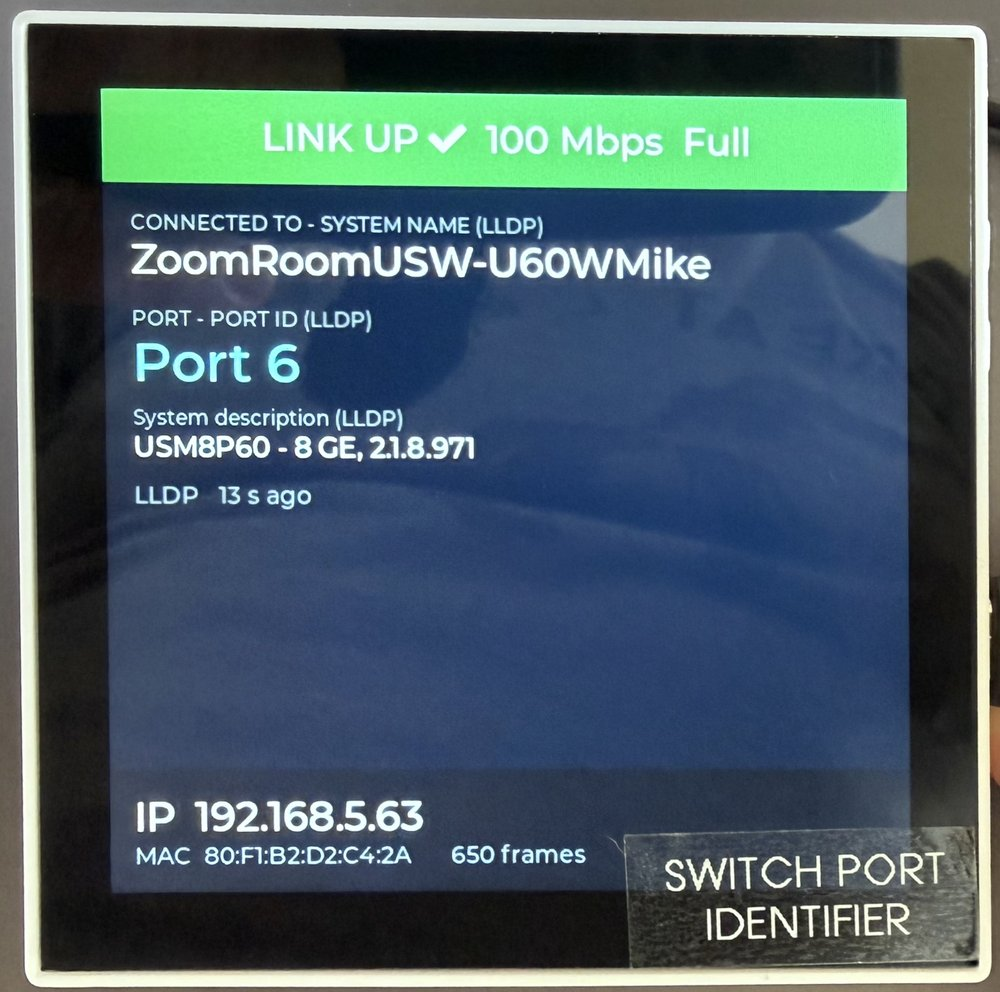
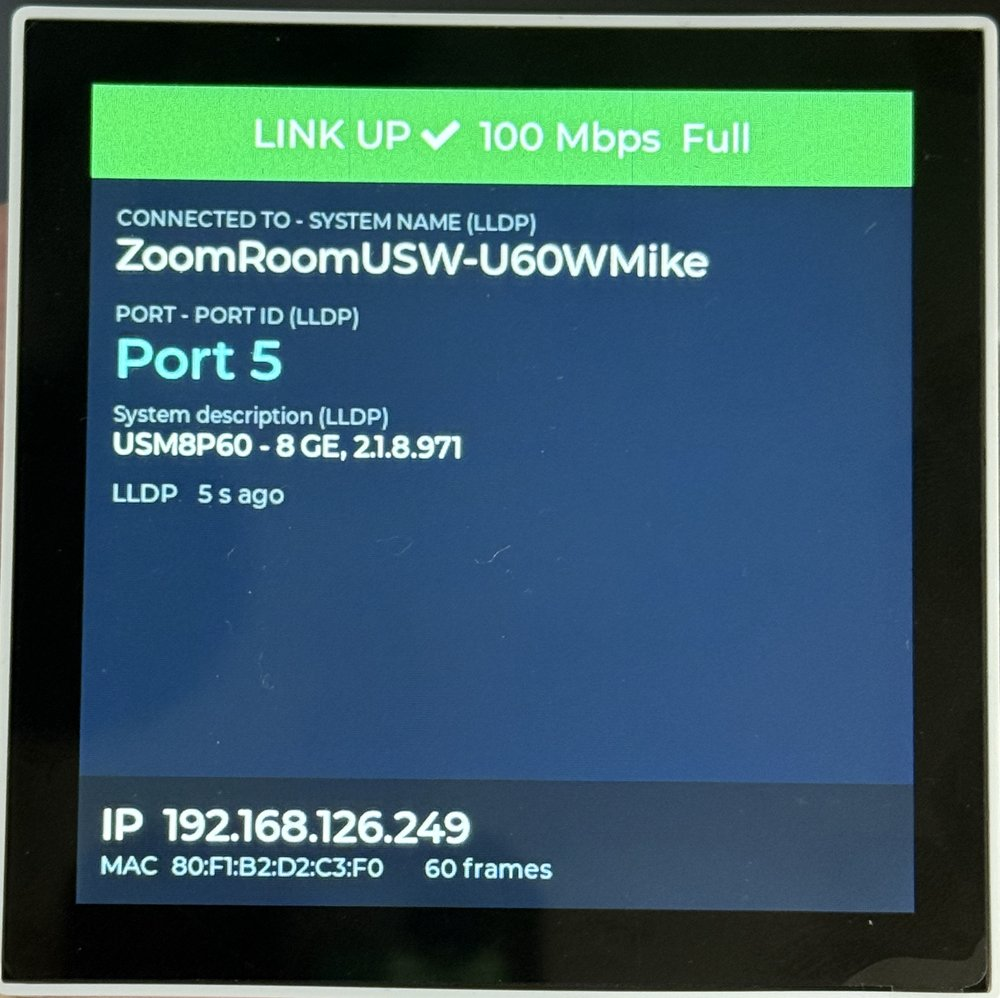
update portfinder photo

diff --git a/README.md b/README.md
@@ -6,7 +6,7 @@
   <tr>
     <td align="center" width="33%"><img src="docs/main-menu.jpg" alt="LinkScout boot menu with two large buttons, Cresnet Monitor and Switch Port Finder"></td>
     <td align="center" width="33%"><img src="docs/cresnet-monitor.jpg" alt="Cresnet Monitor showing a 16 by 16 grid of Cresnet IDs, most green, a few magenta, the rest grey"></td>
-    <td align="center" width="33%"><img src="docs/port-finder.jpg" alt="Switch Port Finder showing link up at 100 Mbps, the switch name, port 6, its system description and the DHCP address"></td>
+    <td align="center" width="33%"><img src="docs/port-finder.jpg" alt="Switch Port Finder showing link up at 100 Mbps, the switch name, port 5, its system description and the DHCP address"></td>
   </tr>
   <tr>
     <td align="center"><b>Pick a tool at boot</b></td>
